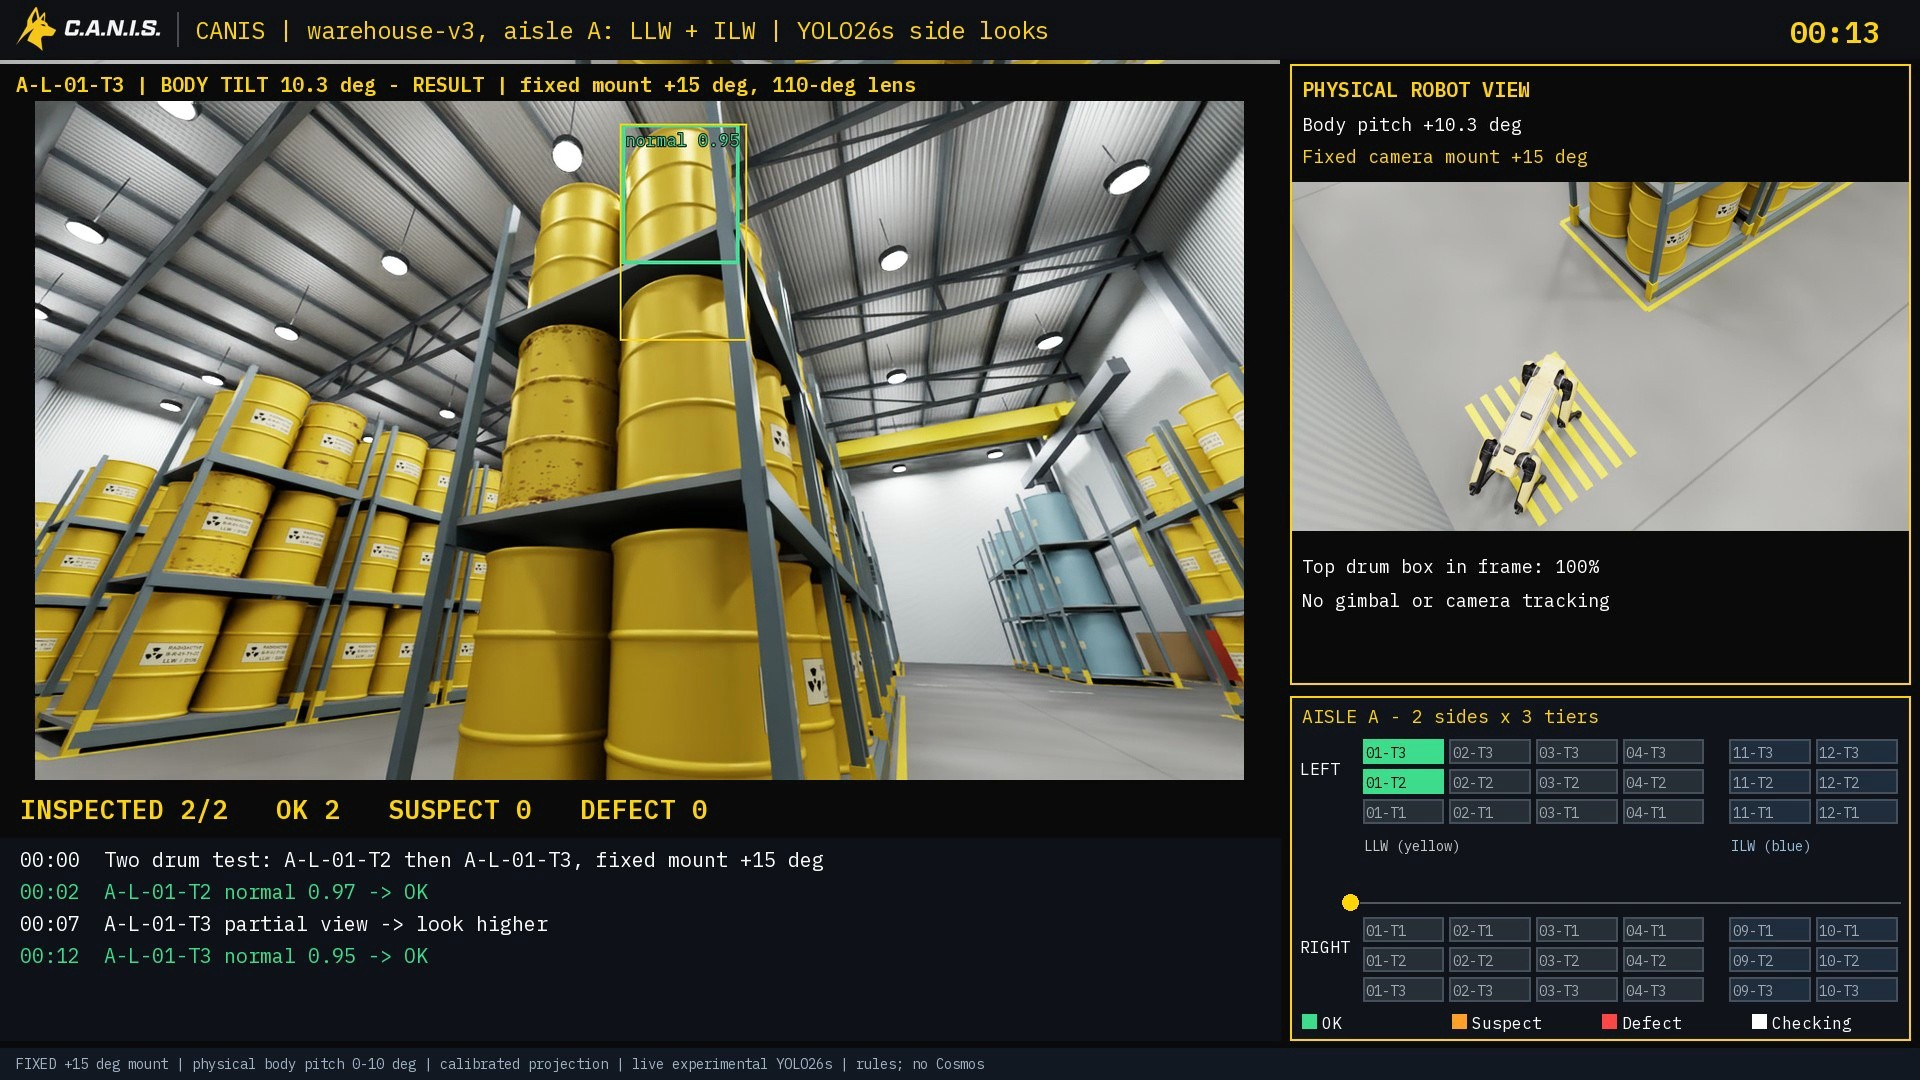
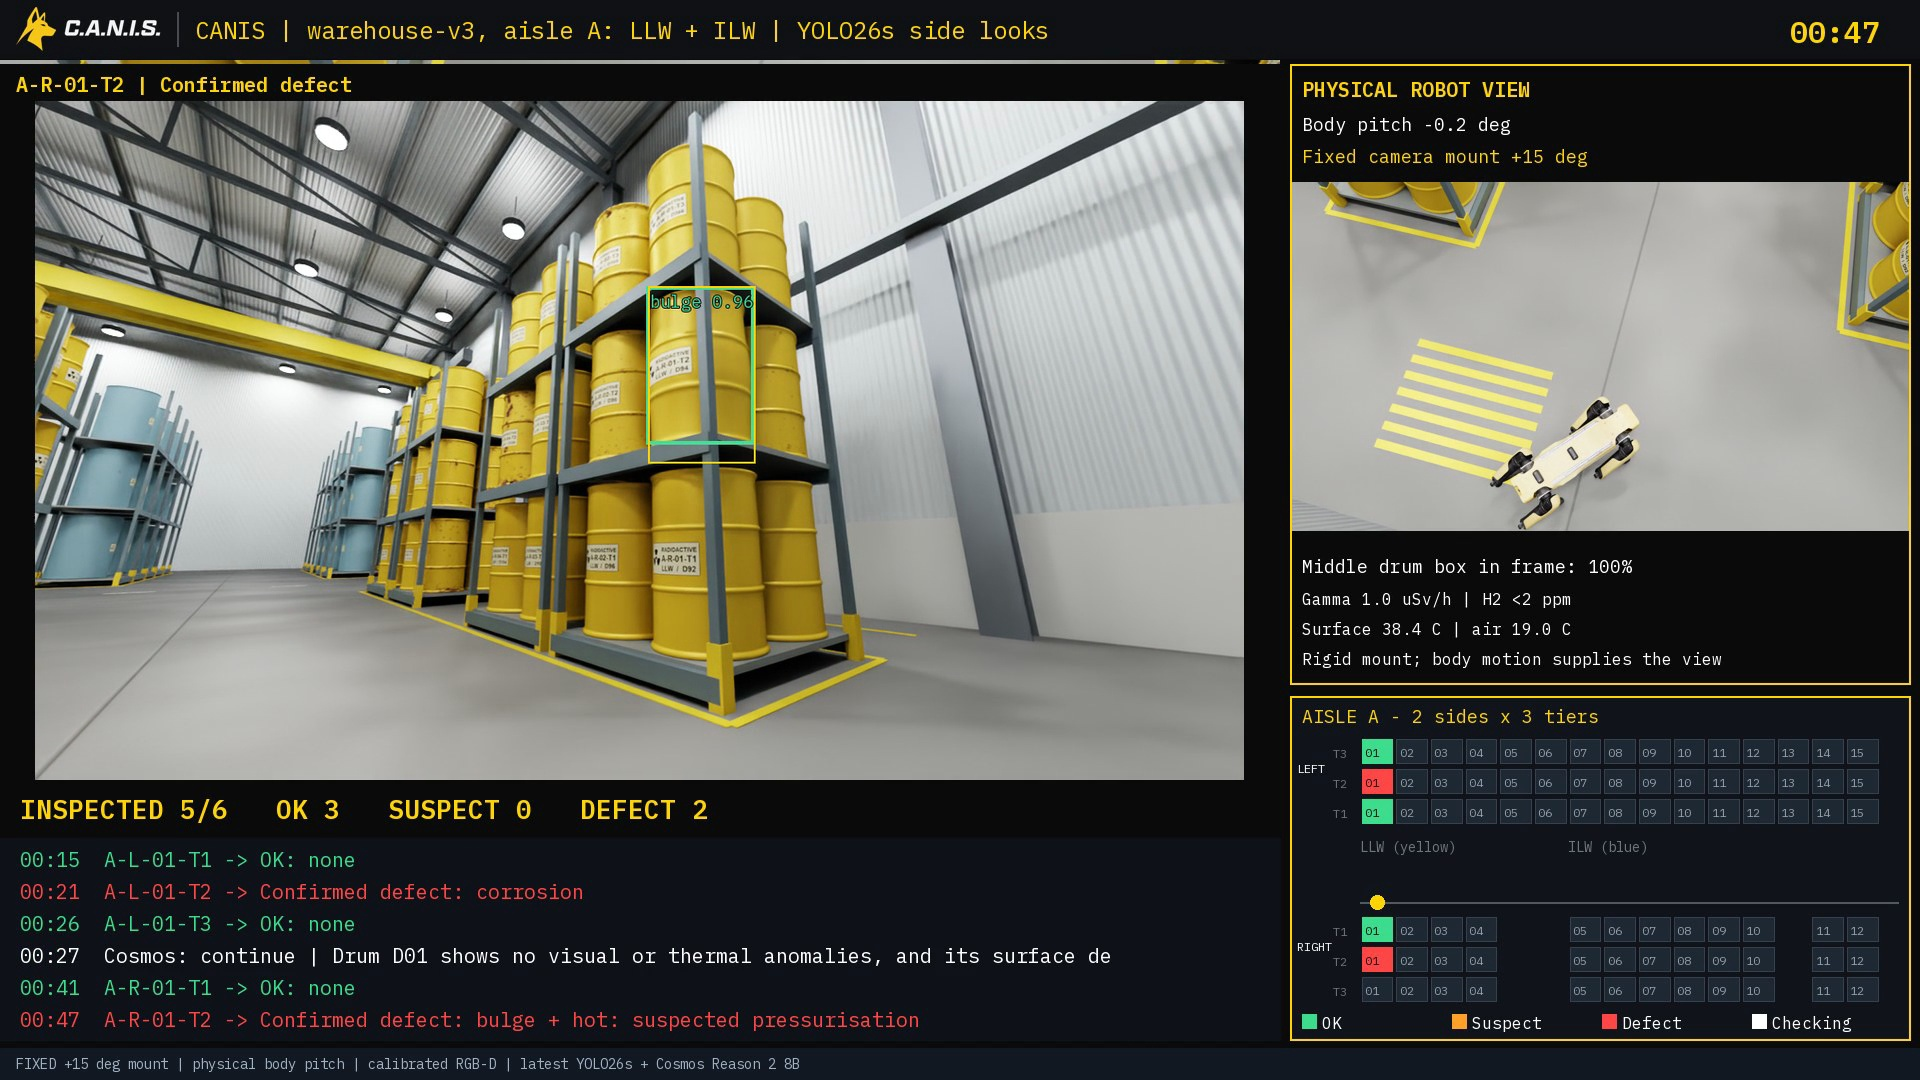
docs: show latest fault detection in README preview

diff --git a/README.md b/README.md
@@ -14,9 +14,9 @@ CANIS is a simulated Spot inspection agent that combines visual findings, sensor
 
 The mission goal is to collect the required evidence for every assigned drum and report what remains unresolved. A separate safety layer constrains the choices available to the reasoning model and can stop motion independently.
 
-![Warehouse-v3 middle- and upper-drum test with a fixed body-mounted camera](docs/previews/canis-banner.jpg)
+![CANIS detecting a bulging drum with elevated surface temperature in warehouse-v3](docs/previews/canis-banner.jpg)
 
-*Latest warehouse-v3 two-drum camera/model test: fixed 15° upward mount, physical body pitch and the expanded YOLO26s. This rules-driven clip is separate from the earlier YOLO/Cosmos mission. [Reproduce the recording](docs/rigid_camera_demos.md).*
+*Frame from the latest six-drum recording: YOLO26s detects a bulging drum with a 38.4°C surface reading (19.0°C air), flagged as suspected pressurisation. The run uses Cosmos Reason 2–8B and a rigid camera mounted 15° upward.*
 
 | What CANIS observes | How it responds |
 |---|---|
